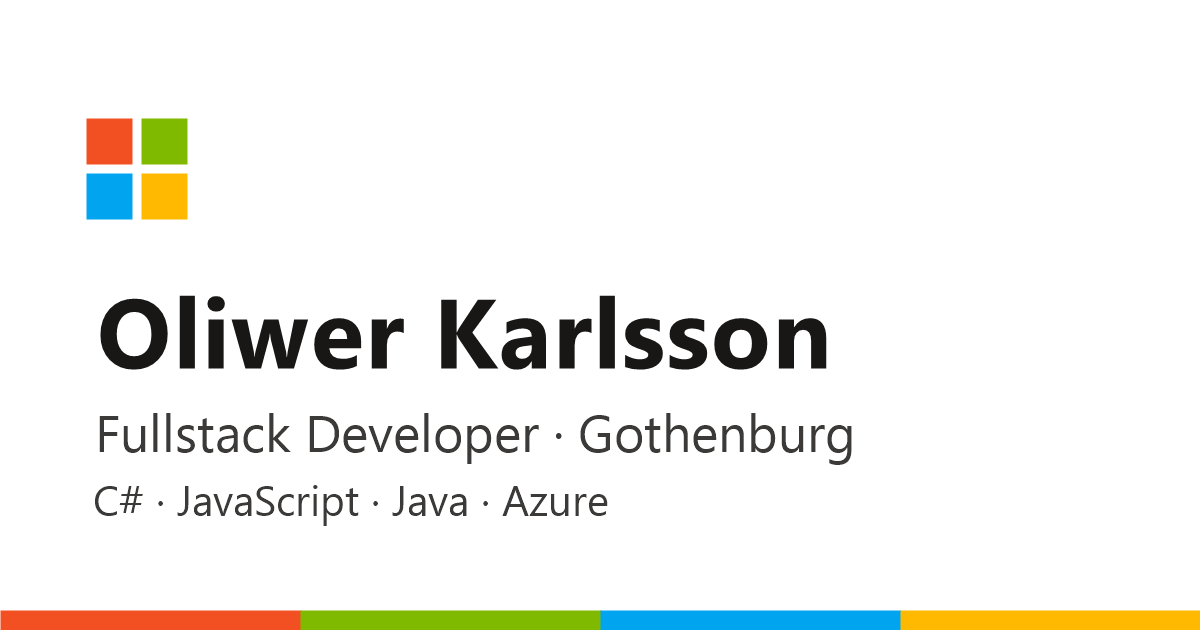
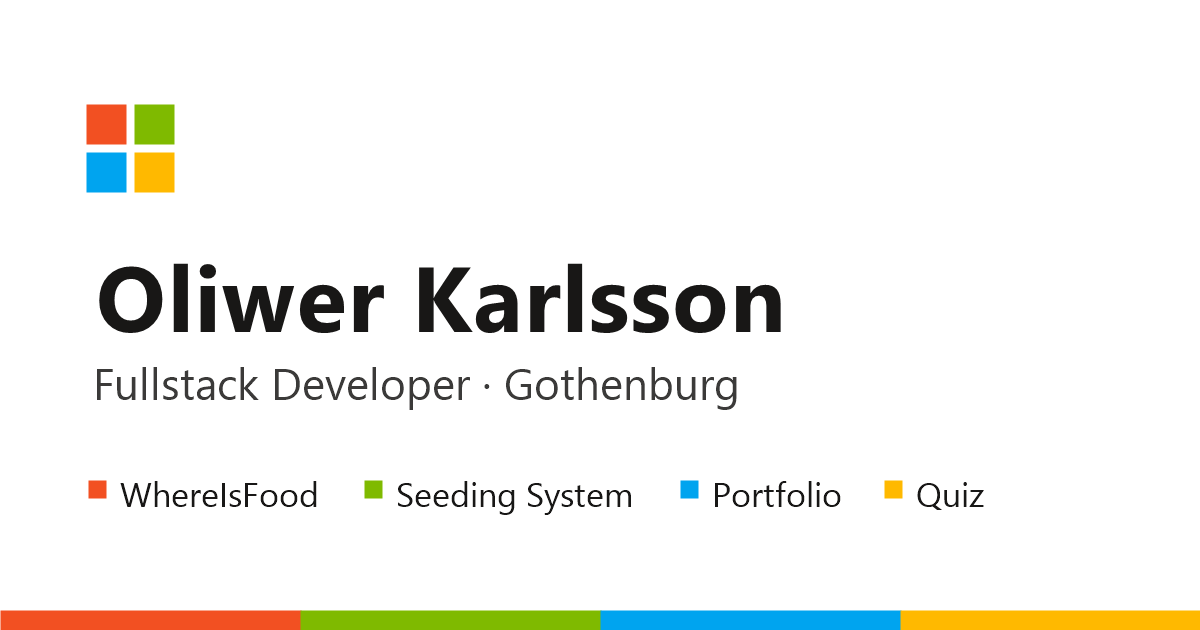
Show the projects on the social card (#15)
The card had four slots and spent all of them on the same information: name
three times, 'fullstack developer' three times, stack twice. Nothing told a
scroller there was anything to look at.

The image now carries name, role and the four project names, each marked with
its accent colour - the same device the section markers use, so the palette
reads as a system rather than decoration. Coloured squares rather than coloured
text: yellow on white fails contrast badly at the size this renders.

Stack moved out of the image into the description, which previously just
restated the title. The description now says what makes the projects worth
reading rather than repeating who wrote them.

diff --git a/src/Portfolio.Client/wwwroot/index.html b/src/Portfolio.Client/wwwroot/index.html
@@ -5,7 +5,7 @@
     <meta charset="utf-8" />
     <meta name="viewport" content="width=device-width, initial-scale=1.0" />
     <title>Oliwer Karlsson — Fullstack Developer</title>
-    <meta name="description" content="Fullstack developer in Gothenburg working in C#, JavaScript and Java. Projects, and the reasoning behind them." />
+    <meta name="description" content="Each project written up with the reasoning behind it — what I built and why it's built that way. C#, JavaScript, Java and TypeScript." />
     <base href="/" />
 
     <!--
@@ -16,7 +16,7 @@
     <meta property="og:type" content="website" />
     <meta property="og:site_name" content="Oliwer Karlsson" />
     <meta property="og:title" content="Oliwer Karlsson — Fullstack Developer" />
-    <meta property="og:description" content="Fullstack developer in Gothenburg working in C#, JavaScript and Java. Projects, and the reasoning behind them." />
+    <meta property="og:description" content="Each project written up with the reasoning behind it — what I built and why it's built that way. C#, JavaScript, Java and TypeScript." />
     <meta property="og:url" content="https://ambitious-coast-0312a8e0f.7.azurestaticapps.net/" />
     <meta property="og:image" content="https://ambitious-coast-0312a8e0f.7.azurestaticapps.net/img/og-image.png" />
     <meta property="og:image:width" content="1200" />
